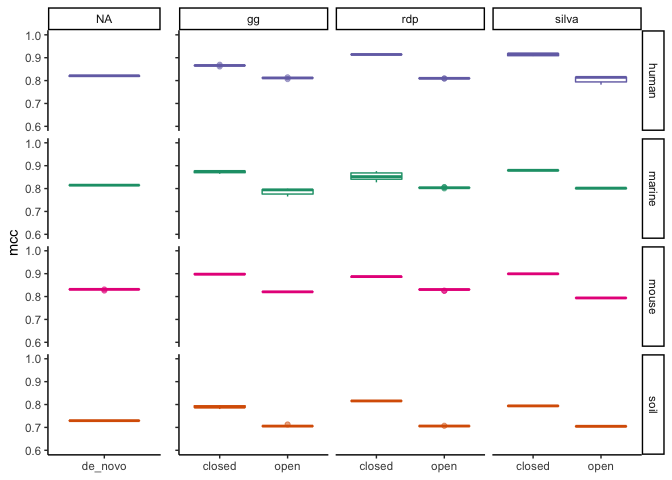
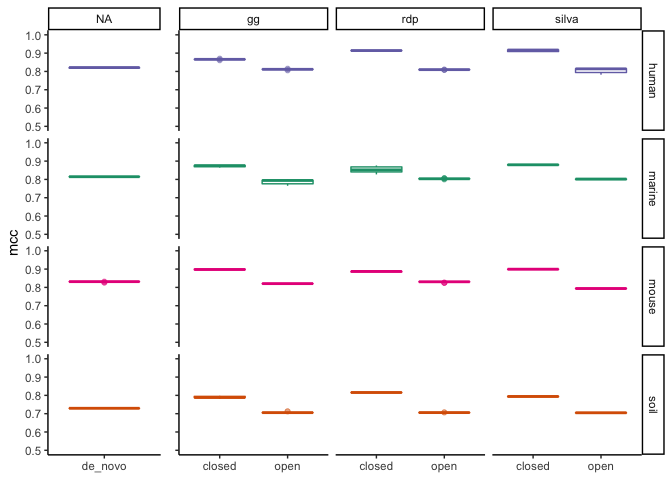
Fix ylims

diff --git a/exploratory/2020/README.md b/exploratory/2020/README.md
@@ -30,7 +30,7 @@ plot_box_mcc <- function(df) {
     ggplot(aes(x = method, y = mcc, color = dataset)) +
     geom_boxplot(alpha = 0.5) +
     scale_color_manual(values = dataset_colors) +
-    ylim(0.6, 1) +
+    ylim(0.5, 1) +
     facet_grid(dataset ~ ref) +
     theme(legend.position = "None",
           axis.title.x = element_blank())
@@ -41,8 +41,8 @@ plot_box_time <- function(df) {
     ggplot(aes(x = method, y = s, color = dataset)) +
     geom_boxplot() +
     scale_color_manual(values = dataset_colors) +
-    ylim(0, 1000) +
     facet_wrap("ref") +
+    ylim(0,2100) +
     labs(y = 'seconds') +
     theme(axis.title.x = element_blank())
 }
